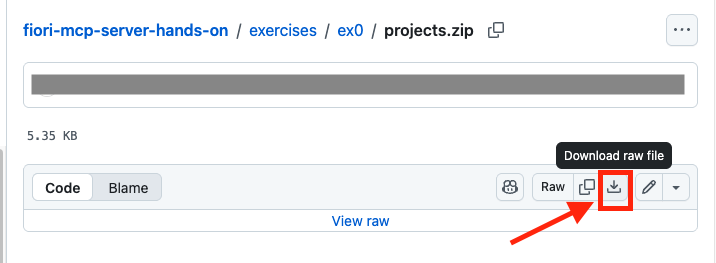
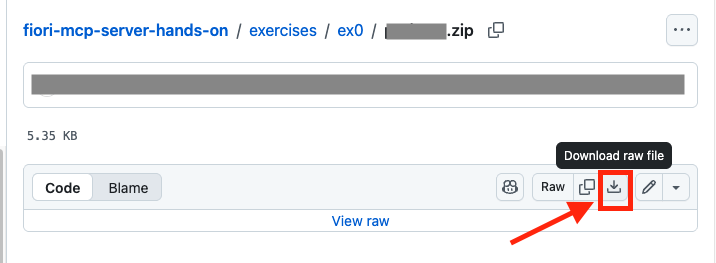
update image

Changed region(s): [[0.5223, 0.0608, 0.6453, 0.1521]]

diff --git a/exercises/ex0/README.md b/exercises/ex0/README.md
@@ -89,7 +89,7 @@ As a participant of the hands-on tutorial, you should already be set up with acc
 
     ![image](images/project-explorer.png)
 
-8. Download the <a href="projects.zip" target="_blank" rel="noopener noreferrer">projects.zip</a> file to your local disk.
+8. Download the <a href="config.zip" target="_blank" rel="noopener noreferrer">config.zip</a> file to your local disk.
 
     ![image](images/download-instructions.png)
 
@@ -97,7 +97,7 @@ As a participant of the hands-on tutorial, you should already be set up with acc
 
 10. Open a terminal and run the following command to extract the file:
     ```
-    unzip projects.zip
+    unzip config.zip
     ```
 
 ## Configure GitHub Copilot (AI Client)
